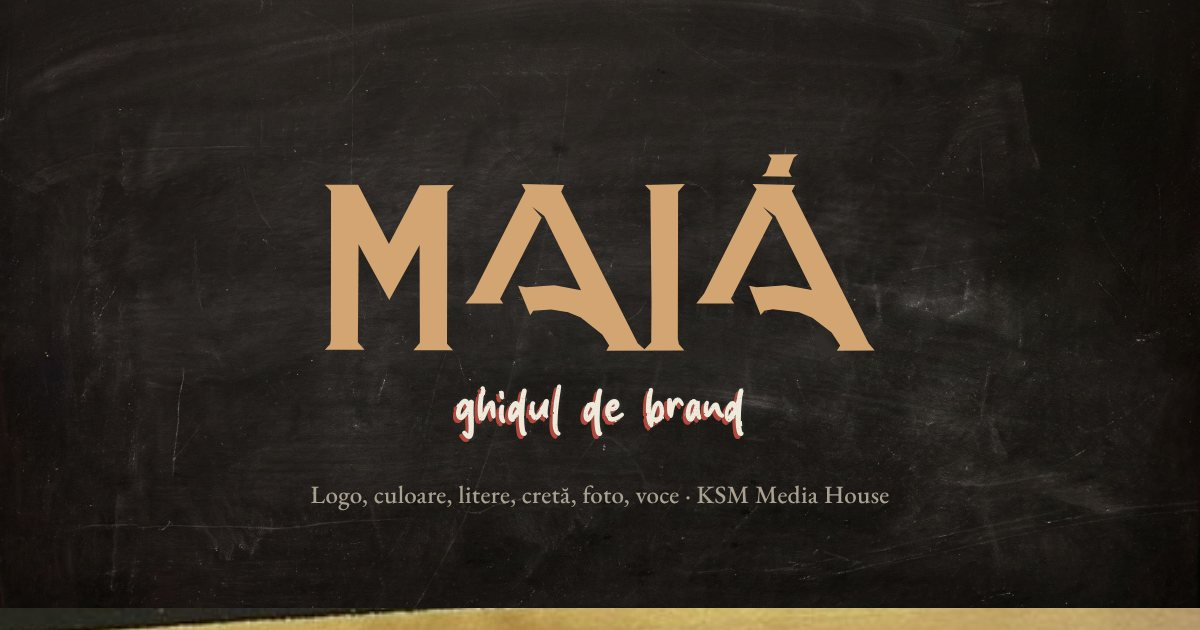
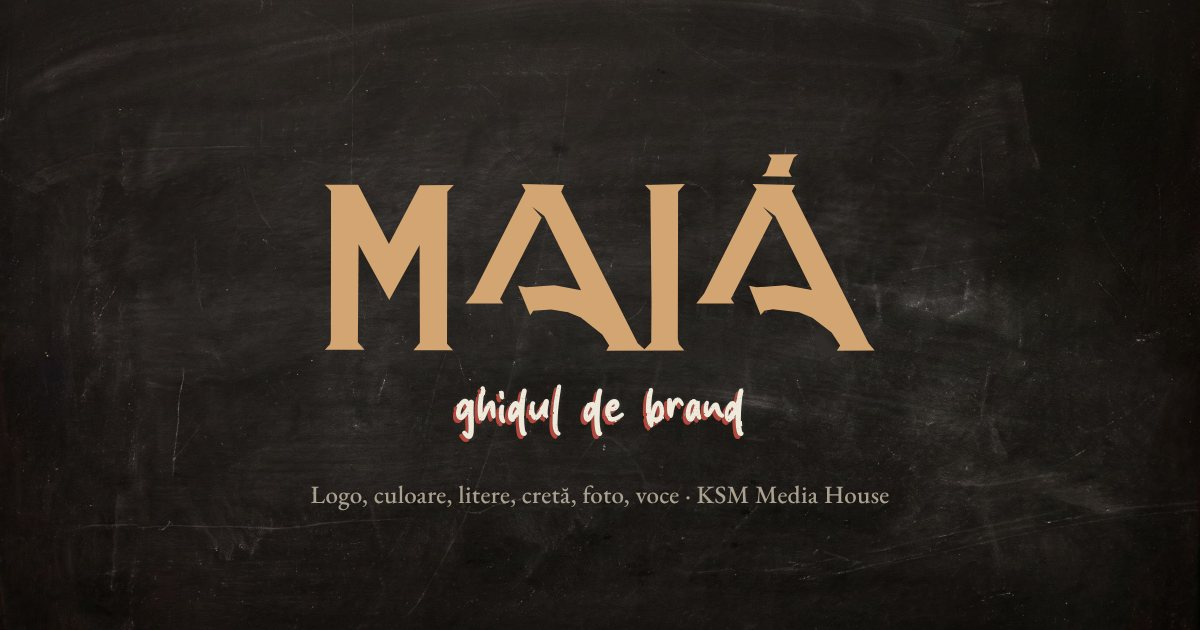
Maia: fără banda aurie de jos
Claude-Session: https://claude.ai/code/session_01892xonWbYHQNDi6Rf6YRov

Changed region(s): [[0.0, 0.9651, 1.0, 1.0]]

diff --git a/maia/index.html b/maia/index.html
@@ -36,9 +36,8 @@ button{font:inherit;color:inherit}
 #viewport{position:fixed;inset:0;display:flex;align-items:center;justify-content:center;background:var(--tabla);overflow:hidden}
 #stage{position:relative;width:1280px;height:720px;flex:none;transform-origin:center center;overflow:hidden;background:var(--tabla) url(https://bmarginean1.github.io/ksm-website/maia/img/tabla-bg.jpg) center/cover}
 /* one board that never moves: the band stays, the chalk of the last slide is wiped off and the next one is written */
-#stage::after{content:"";position:absolute;left:0;right:0;bottom:0;height:22px;background:var(--auriu) url(https://bmarginean1.github.io/ksm-website/maia/img/c-auriu.jpg) center 85%/cover;z-index:9;pointer-events:none}
 .slide{position:absolute;inset:0;overflow:hidden;visibility:hidden}
-.slide>.band{display:none}
+.band{display:none!important}
 .slide.active{visibility:visible;z-index:2}
 .slide.leaving{visibility:visible;z-index:1;pointer-events:none;animation:wipeOut .55s cubic-bezier(.4,0,.6,1) forwards}
 .slide.entering{animation:boardIn .5s ease .32s both}
